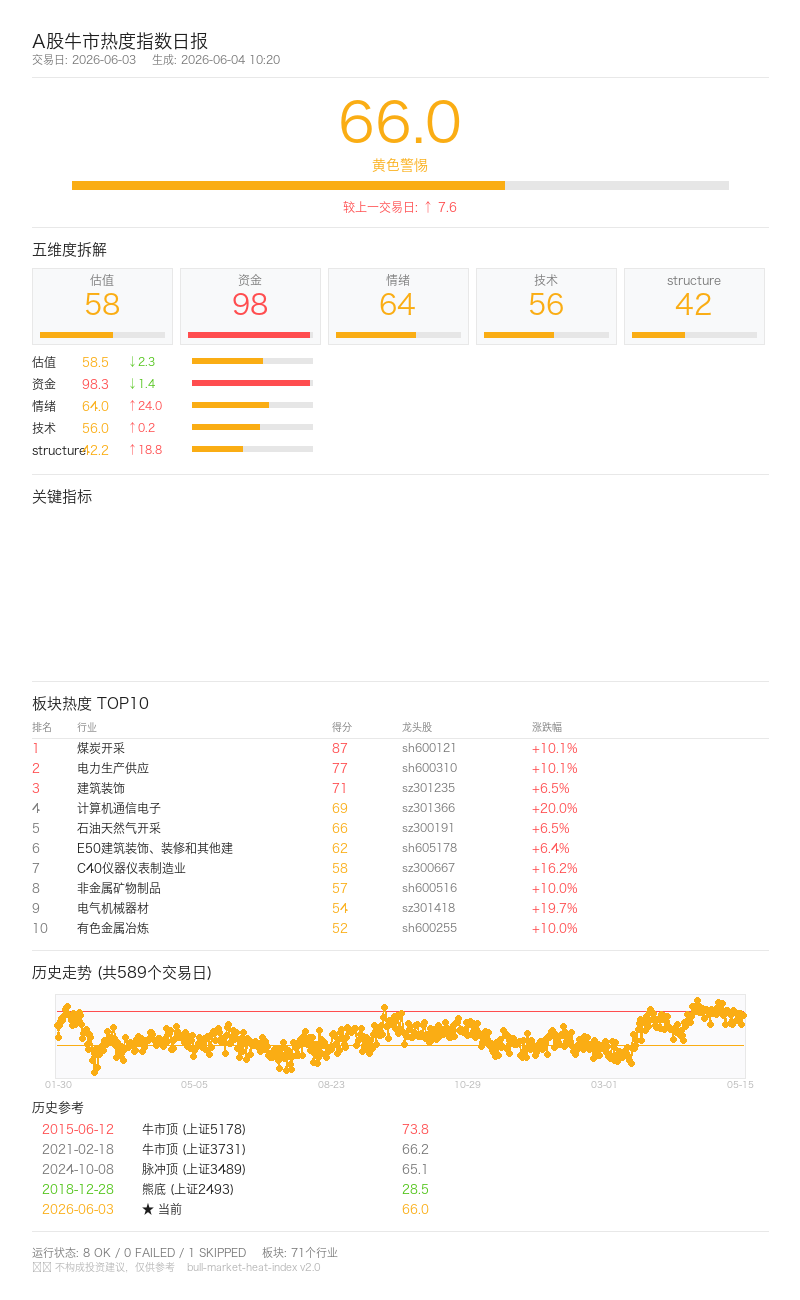
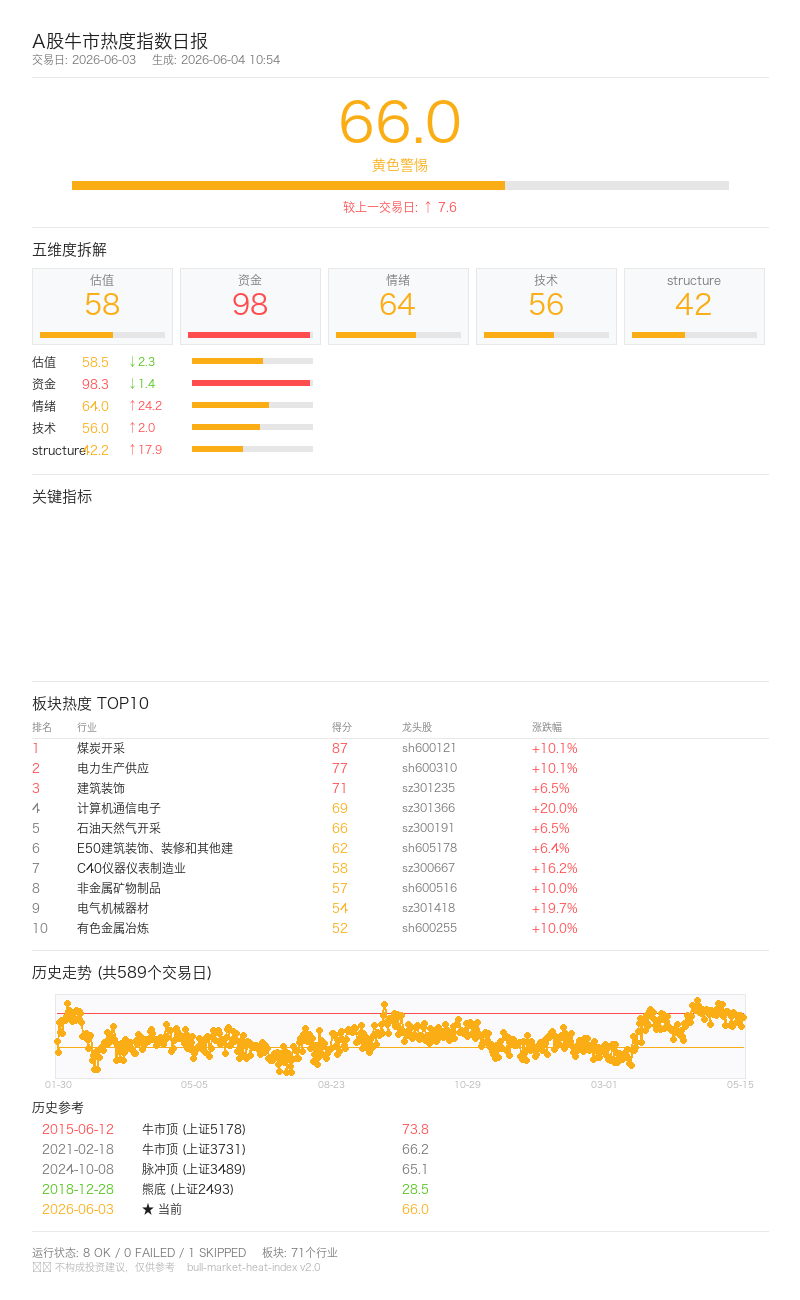
perf: 预计算表优化 + 周频回测完成 (14.8分钟, 589天)
预计算表 (7个):
- daily_below_net: 破净率
- daily_circ_mv: 流通市值总和
- daily_updown: 涨跌家数比
- daily_turnover: 换手率
- daily_limit: 涨停/跌停占比
- daily_ma250: 站上年线比例
- daily_sector_div: 行业分化度

计算器速度: 63秒→1.5秒 (42倍)
周频回测: 166分钟→14.8分钟 (11倍)

统计: 均值48.6 | 最高80.9(2025-09-11) | 最低18.2(2018-12-21)
分布: 🔴33天 🟡407天 🟢149天

diff --git a/reports/daily_20260603.html b/reports/daily_20260603.html
@@ -63,7 +63,7 @@ tr:hover { background:#111827; }
 <div class="container">
 
 <h1>📊 A股牛市热度指数日报</h1>
-<div class="sub"><span>📅 2026-06-03</span><span>🕐 2026-06-04 10:20</span><span>📈 日频</span></div>
+<div class="sub"><span>📅 2026-06-03</span><span>🕐 2026-06-04 10:54</span><span>📈 日频</span></div>
 
 <div class="hero">
   <div class="score-big">66.0</div>
@@ -83,15 +83,15 @@ tr:hover { background:#111827; }
       <div class="dim-bar"><div class="dim-bar-fill" style="width:98.3%;background:#ff4d4f"></div></div>
     </div><div class="dim-card">
       <div class="dim-name">情绪</div>
-      <div class="dim-score" style="color:#faad14">64<span style="color:red;font-size:0.85em">↑24.0</span></div>
+      <div class="dim-score" style="color:#faad14">64<span style="color:red;font-size:0.85em">↑24.2</span></div>
       <div class="dim-bar"><div class="dim-bar-fill" style="width:64.0%;background:#faad14"></div></div>
     </div><div class="dim-card">
       <div class="dim-name">技术</div>
-      <div class="dim-score" style="color:#faad14">56<span style="color:red;font-size:0.85em">↑0.2</span></div>
+      <div class="dim-score" style="color:#faad14">56<span style="color:red;font-size:0.85em">↑2.0</span></div>
       <div class="dim-bar"><div class="dim-bar-fill" style="width:56.0%;background:#faad14"></div></div>
     </div><div class="dim-card">
       <div class="dim-name">structure</div>
-      <div class="dim-score" style="color:#faad14">42<span style="color:red;font-size:0.85em">↑18.8</span></div>
+      <div class="dim-score" style="color:#faad14">42<span style="color:red;font-size:0.85em">↑17.9</span></div>
       <div class="dim-bar"><div class="dim-bar-fill" style="width:42.2%;background:#faad14"></div></div>
     </div></div>
 
@@ -153,7 +153,7 @@ tr:hover { background:#111827; }
 
 <div class="footer">
   <p>⚠️ 不构成投资建议，仅供参考</p>
-  <p>bull-market-heat-index v2.0 · baostock + tushare + akshare · 2026-06-04 10:20</p>
+  <p>bull-market-heat-index v2.0 · baostock + tushare + akshare · 2026-06-04 10:54</p>
 </div>
 </div>
 
@@ -173,7 +173,7 @@ scoreChart.setOption({
     splitLine:{lineStyle:{color:'#1e293b'}}, axisLabel:{color:'#6b7280',fontSize:10}
   },
   series:[{
-    type:'line', data:[57.9, 47.5, 57.6, 61.7, 64.3, 62.1, 66.7, 72.0, 73.8, 74.5, 67.8, 66.2, 62.3, 57.4, 68.5, 61.0, 59.0, 67.2, 61.2, 69.0, 66.3, 58.3, 46.4, 50.9, 53.1, 54.1, 41.3, 37.0, 50.0, 47.3, 26.8, 35.6, 16.3, 32.4, 37.3, 20.9, 32.3, 38.8, 38.8, 40.5, 35.6, 44.6, 41.0, 52.3, 42.6, 44.3, 47.0, 43.6, 56.3, 46.1, 40.1, 30.2, 42.7, 34.9, 31.7, 39.7, 34.9, 26.8, 37.2, 47.4, 38.9, 38.4, 39.7, 43.2, 40.7, 40.6, 34.9, 36.0, 45.4, 42.1, 48.1, 41.8, 46.3, 35.0, 41.2, 38.6, 42.8, 44.8, 45.0, 46.5, 52.0, 51.9, 50.2, 45.3, 43.8, 40.4, 44.6, 46.8, 46.5, 45.6, 41.9, 39.8, 42.3, 46.2, 55.2, 43.9, 51.2, 53.8, 36.4, 36.9, 37.7, 45.3, 56.7, 52.9, 50.0, 47.3, 48.3, 48.9, 45.6, 42.9, 51.8, 48.7, 39.4, 48.4, 37.3, 44.5, 48.9, 31.0, 36.2, 37.7, 39.6, 41.7, 46.9, 42.1, 45.3, 38.6, 46.4, 36.7, 46.1, 48.6, 46.9, 32.4, 38.9, 50.7, 52.8, 50.9, 44.7, 52.5, 55.3, 51.9, 43.4, 46.7, 44.0, 45.0, 33.4, 48.7, 56.3, 58.3, 41.9, 42.0, 48.1, 53.7, 45.8, 47.2, 51.6, 37.6, 30.2, 43.4, 46.6, 35.1, 51.3, 42.7, 27.8, 46.1, 43.1, 45.1, 32.7, 43.2, 40.3, 41.6, 43.5, 42.1, 39.5, 38.6, 35.3, 43.0, 47.1, 41.9, 37.1, 43.4, 39.8, 31.2, 33.4, 29.7, 32.8, 29.8, 36.4, 32.6, 33.8, 37.1, 27.4, 20.2, 37.5, 31.2, 42.6, 28.9, 37.4, 18.8, 35.9, 30.6, 23.8, 19.1, 30.9, 43.0, 38.5, 31.4, 39.6, 31.9, 43.8, 45.3, 31.3, 48.0, 41.8, 52.9, 45.7, 41.3, 47.3, 36.3, 42.9, 46.9, 25.5, 33.1, 41.0, 24.9, 29.8, 53.4, 34.4, 45.4, 40.4, 42.8, 31.9, 29.5, 34.1, 38.7, 37.6, 37.1, 50.2, 51.0, 49.1, 41.1, 33.2, 45.8, 35.9, 51.8, 54.4, 46.3, 41.5, 38.5, 47.6, 55.9, 54.7, 52.7, 51.6, 53.1, 53.3, 55.2, 55.3, 40.1, 44.7, 45.7, 50.2, 55.0, 35.3, 48.5, 36.8, 47.3, 40.7, 40.2, 33.2, 45.0, 37.6, 49.8, 58.0, 49.9, 41.5, 53.3, 49.2, 49.2, 57.7, 49.6, 64.4, 73.5, 57.1, 56.6, 46.5, 62.1, 58.8, 62.6, 60.6, 65.7, 55.6, 64.3, 66.9, 50.6, 54.7, 68.2, 52.4, 51.9, 41.5, 49.8, 48.6, 59.2, 54.4, 57.0, 47.3, 47.3, 51.4, 57.8, 58.2, 59.0, 48.5, 47.8, 50.9, 48.5, 58.1, 60.6, 46.6, 49.4, 49.6, 43.3, 55.4, 50.4, 45.6, 54.3, 50.7, 45.8, 47.8, 57.5, 48.4, 51.0, 54.3, 49.7, 54.2, 60.6, 50.6, 55.4, 46.9, 47.7, 52.8, 54.3, 58.1, 48.0, 60.0, 60.0, 63.5, 53.0, 52.4, 54.1, 51.9, 53.0, 54.7, 60.4, 49.4, 58.5, 60.9, 50.3, 57.4, 59.3, 54.9, 46.9, 59.9, 51.3, 50.3, 49.4, 39.6, 43.0, 49.6, 52.4, 44.0, 46.0, 51.9, 40.5, 41.8, 36.0, 34.3, 37.1, 30.8, 42.9, 31.6, 40.4, 45.5, 38.4, 39.1, 53.3, 49.2, 49.8, 36.7, 48.1, 33.7, 45.0, 42.3, 46.5, 40.9, 41.9, 41.2, 42.7, 43.5, 31.8, 32.4, 30.1, 44.8, 34.4, 29.7, 50.7, 44.1, 40.7, 36.5, 44.4, 40.6, 37.1, 31.9, 33.8, 37.9, 40.9, 43.6, 39.9, 36.5, 41.0, 41.2, 45.3, 32.7, 48.3, 47.5, 48.2, 52.7, 53.3, 38.7, 49.9, 46.5, 40.9, 42.9, 41.5, 49.7, 48.7, 57.2, 39.1, 51.4, 40.9, 47.8, 44.2, 50.8, 51.8, 39.8, 35.3, 32.4, 35.8, 38.5, 41.6, 45.8, 42.2, 40.9, 36.4, 48.4, 43.8, 38.7, 46.9, 36.6, 39.2, 41.5, 40.5, 29.3, 45.0, 37.0, 31.5, 40.9, 32.0, 38.0, 37.9, 38.0, 42.2, 43.4, 33.8, 39.4, 30.4, 29.4, 29.0, 43.5, 30.4, 27.5, 42.6, 26.7, 33.7, 35.0, 33.1, 33.9, 30.2, 35.0, 32.4, 33.5, 38.8, 30.5, 26.8, 24.9, 37.7, 50.3, 37.9, 40.7, 44.5, 54.2, 59.6, 63.0, 44.3, 60.6, 62.4, 53.4, 65.6, 59.6, 57.2, 69.5, 71.4, 63.4, 68.4, 63.3, 58.1, 55.7, 62.7, 63.7, 54.9, 67.6, 63.1, 66.9, 54.7, 61.0, 65.4, 56.4, 55.9, 54.2, 54.5, 46.0, 55.0, 52.5, 52.0, 58.6, 52.0, 48.8, 53.0, 48.9, 44.7, 60.0, 56.9, 67.1, 63.3, 62.9, 60.6, 65.7, 74.7, 74.1, 70.4, 74.8, 79.2, 75.6, 69.0, 68.9, 72.4, 70.4, 63.8, 71.0, 72.2, 70.7, 67.7, 58.8, 71.4, 68.6, 68.0, 71.6, 67.7, 73.8, 77.5, 75.6, 69.2, 76.9, 66.3, 70.2, 58.8, 70.6, 70.8, 68.7, 59.4, 67.4, 58.3, 71.2, 68.9, 62.1, 67.6, 68.6, 64.2, 68.3, 58.4, 66.4],
+    type:'line', data:[45.8, 36.3, 62.5, 53.1, 63.8, 52.5, 63.5, 63.6, 67.0, 78.3, 69.5, 72.4, 66.8, 63.0, 70.0, 65.7, 63.8, 72.5, 64.7, 71.7, 69.9, 62.4, 50.0, 49.9, 51.5, 52.7, 47.0, 39.7, 49.4, 50.5, 29.4, 33.6, 21.0, 32.8, 36.7, 20.9, 31.3, 39.3, 40.0, 39.8, 37.7, 44.9, 43.5, 53.7, 43.6, 46.9, 48.0, 50.3, 58.9, 47.1, 44.7, 28.7, 42.4, 36.5, 30.1, 44.1, 37.1, 29.5, 36.1, 47.4, 40.6, 39.1, 40.9, 44.8, 39.2, 38.0, 35.5, 35.3, 46.4, 43.1, 51.8, 44.9, 49.4, 38.4, 44.1, 43.3, 46.0, 47.8, 46.0, 47.9, 54.0, 56.2, 52.9, 47.5, 47.3, 42.3, 46.0, 47.7, 48.2, 49.3, 44.4, 42.9, 46.6, 50.3, 60.8, 49.0, 54.9, 55.6, 36.9, 38.6, 39.7, 46.2, 57.0, 54.0, 51.4, 48.6, 51.1, 50.3, 46.9, 44.1, 56.2, 51.6, 39.5, 50.1, 38.6, 44.7, 50.0, 31.2, 35.6, 37.4, 40.1, 40.2, 47.9, 42.7, 45.6, 38.7, 47.8, 36.2, 47.1, 50.0, 49.2, 33.0, 39.6, 49.9, 55.2, 53.1, 46.4, 53.6, 55.6, 52.2, 42.7, 47.8, 45.1, 45.6, 35.5, 49.0, 56.5, 57.7, 42.4, 42.1, 47.6, 54.6, 45.8, 47.4, 52.2, 36.9, 30.7, 42.8, 46.2, 34.5, 51.0, 42.3, 30.4, 45.7, 43.0, 45.0, 33.2, 42.8, 40.2, 42.2, 42.4, 42.0, 39.5, 38.8, 34.6, 41.3, 45.1, 41.0, 36.0, 42.1, 39.5, 30.7, 31.8, 29.5, 32.1, 28.9, 35.3, 32.3, 31.8, 35.8, 25.9, 19.4, 35.1, 29.6, 41.5, 27.7, 37.0, 19.0, 34.9, 29.8, 23.8, 18.2, 30.2, 41.1, 37.7, 31.2, 38.1, 31.1, 44.9, 48.3, 36.5, 51.8, 46.2, 57.0, 51.5, 45.2, 51.5, 39.8, 44.3, 48.5, 27.9, 33.9, 41.8, 25.7, 31.7, 55.5, 36.3, 46.3, 41.2, 43.6, 32.3, 31.2, 34.8, 38.7, 38.7, 39.7, 52.9, 52.5, 51.1, 41.3, 34.4, 46.7, 37.2, 52.2, 54.6, 47.1, 42.3, 39.6, 47.3, 55.2, 55.7, 54.4, 54.1, 53.6, 55.3, 57.5, 56.8, 44.9, 45.3, 47.9, 52.9, 59.2, 39.8, 52.2, 40.6, 49.5, 42.7, 41.5, 36.2, 47.3, 40.3, 51.2, 59.2, 51.4, 43.4, 53.7, 50.6, 51.5, 60.6, 52.6, 68.0, 78.1, 61.9, 60.7, 52.5, 65.9, 64.3, 65.4, 63.3, 69.6, 58.8, 65.6, 69.3, 52.1, 55.7, 68.5, 53.9, 54.4, 45.5, 53.1, 50.5, 60.7, 56.1, 58.6, 50.3, 48.4, 51.7, 58.0, 58.1, 59.7, 48.4, 47.4, 50.5, 49.0, 58.1, 60.9, 46.7, 50.1, 50.8, 44.3, 57.0, 51.9, 46.8, 55.6, 51.2, 45.7, 47.3, 57.7, 49.0, 50.9, 54.4, 49.3, 54.0, 60.5, 50.5, 55.1, 46.7, 47.6, 52.9, 54.6, 58.8, 48.1, 60.2, 60.6, 64.6, 53.6, 53.2, 55.3, 52.7, 53.8, 55.1, 61.0, 49.7, 59.4, 62.0, 51.3, 58.5, 60.4, 56.7, 48.2, 61.9, 52.7, 52.0, 51.2, 40.9, 44.1, 51.7, 53.7, 45.1, 46.6, 52.6, 41.4, 42.8, 36.9, 34.7, 37.9, 30.8, 42.5, 32.1, 41.1, 45.8, 39.1, 39.6, 53.6, 49.2, 49.8, 37.1, 48.8, 33.6, 46.4, 43.1, 47.0, 41.8, 42.1, 42.2, 44.3, 44.8, 32.5, 32.8, 30.2, 45.3, 35.4, 29.3, 50.8, 44.1, 41.2, 37.4, 45.7, 41.2, 38.3, 32.3, 34.4, 38.7, 41.8, 44.8, 41.6, 38.2, 42.5, 43.2, 47.4, 34.4, 49.6, 48.7, 49.6, 53.9, 54.1, 38.6, 50.3, 47.0, 42.1, 44.1, 42.8, 50.7, 49.3, 57.9, 39.5, 52.5, 42.3, 49.0, 45.4, 52.1, 52.7, 41.1, 36.3, 33.0, 36.8, 39.6, 42.7, 46.9, 43.3, 41.8, 36.9, 48.6, 44.6, 39.5, 48.0, 37.6, 40.1, 41.8, 41.7, 29.9, 45.7, 37.8, 31.8, 40.7, 31.3, 37.0, 37.3, 37.3, 42.0, 43.1, 33.2, 39.4, 30.3, 29.5, 28.9, 42.8, 29.9, 27.5, 42.8, 27.1, 34.1, 35.3, 33.0, 34.1, 30.3, 35.1, 32.5, 33.6, 39.0, 30.4, 26.9, 25.0, 37.6, 49.6, 37.9, 40.7, 44.4, 54.2, 61.5, 65.6, 44.7, 62.1, 64.2, 55.3, 68.3, 61.6, 59.2, 71.8, 73.9, 66.1, 70.5, 65.2, 59.5, 56.3, 64.0, 65.0, 56.2, 69.8, 65.2, 69.3, 56.7, 63.0, 67.7, 58.4, 57.8, 56.1, 55.5, 47.4, 56.4, 53.8, 53.6, 60.2, 53.5, 50.6, 54.8, 50.3, 46.3, 61.6, 58.5, 68.7, 64.9, 64.9, 62.4, 67.4, 76.6, 76.1, 72.6, 76.7, 80.9, 77.3, 70.8, 70.4, 73.8, 72.1, 65.2, 72.4, 73.7, 72.2, 69.2, 60.1, 72.4, 69.7, 68.8, 72.3, 68.6, 74.3, 78.8, 76.9, 70.3, 78.2, 67.2, 71.3, 59.9, 71.6, 71.5, 69.6, 59.7, 67.6, 58.5, 71.1, 69.1, 62.5, 67.8, 68.6, 64.5, 68.3, 58.4, 66.2],
     smooth:true, symbol:'none',
     lineStyle:{color:'#faad14',width:2},
     areaStyle:{color:{type:'linear',x:0,y:0,x2:0,y2:1,colorStops:[{offset:0,color:'#faad1433'},{offset:1,color:'transparent'}]}},
@@ -209,22 +209,22 @@ dimChart.setOption({
       lineStyle:{color:'#1890ff',width:1.5}
     },{
       name:'资金',
-      type:'line', data:[98.3, 54.1, 82.2, 67.5, 53.4, 77.8, 66.9, 50.8, 90.6, 41.4, 67.1, 99.1, 96.5, 98.7, 50.1, 48.5, 27.5, 19.5, 32.4, 32.1, 19.6, 24.1, 2.8, 2.8, 19.6, 45.6, 17.9, 25.6, 39.7, 10.5, 8.4, 8.0, 5.0, 25.8, 30.2, 34.3, 15.9, 20.2, 19.6, 21.6, 13.5, 35.7, 29.8, 37.2, 45.0, 27.2, 29.0, 43.0, 43.6, 40.8, 41.0, 22.2, 23.2, 26.9, 29.8, 38.3, 43.4, 24.9, 25.3, 39.1, 43.8, 53.1, 40.5, 43.4, 18.7, 30.1, 12.9, 31.2, 50.4, 55.8, 60.1, 56.7, 57.1, 56.0, 48.7, 43.1, 33.0, 53.7, 49.6, 51.9, 47.4, 46.0, 34.2, 30.0, 43.0, 66.6, 41.5, 55.2, 70.5, 50.4, 51.9, 38.1, 67.3, 66.0, 56.8, 61.6, 63.6, 60.6, 55.7, 47.6, 35.7, 61.8, 65.9, 41.4, 52.4, 45.9, 61.5, 71.9, 48.8, 54.6, 65.2, 43.8, 64.2, 60.9, 56.8, 61.0, 33.2, 43.6, 41.9, 60.7, 66.2, 69.0, 43.6, 39.3, 67.8, 68.2, 52.2, 51.2, 59.0, 56.0, 48.8, 42.4, 47.6, 55.0, 54.8, 51.2, 69.6, 86.8, 85.4, 54.1, 58.0, 75.2, 79.5, 78.7, 71.7, 85.1, 64.2, 61.9, 75.1, 77.4, 55.1, 66.0, 50.2, 57.3, 63.4, 78.0, 85.8, 64.8, 89.3, 62.7, 82.1, 82.9, 84.7, 87.8, 76.9, 91.1, 72.5, 70.4, 97.2, 71.0, 75.0, 71.6, 71.3, 56.2, 71.5, 55.5, 77.6, 55.1, 75.6, 62.9, 50.0, 58.4, 56.6, 71.1, 34.6, 62.4, 39.5, 51.8, 35.3, 63.3, 40.8, 36.9, 43.0, 57.8, 63.8, 66.1, 61.7, 64.8, 53.9, 65.0, 59.3, 36.9, 53.5, 36.1, 65.7, 35.9, 38.9, 40.3, 37.3, 38.6, 40.0, 25.3, 28.0, 31.7, 39.0, 27.7, 55.3, 32.8, 34.4, 37.8, 51.5, 27.2, 17.3, 35.4, 27.8, 34.4, 47.7, 52.9, 47.2, 55.2, 36.6, 32.4, 49.5, 30.5, 74.3, 89.6, 76.5, 79.1, 72.9, 74.2, 88.5, 90.9, 88.6, 90.2, 72.1, 86.1, 86.2, 88.8, 64.5, 99.0, 68.6, 90.8, 71.2, 63.6, 61.5, 52.7, 65.6, 71.4, 52.2, 59.0, 83.4, 74.5, 66.0, 80.2, 69.5, 59.4, 88.1, 87.0, 68.3, 95.1, 79.9, 94.1, 92.8, 67.4, 79.9, 63.8, 69.3, 69.2, 91.8, 76.7, 92.5, 64.8, 77.4, 92.8, 64.6, 59.5, 86.2, 64.6, 64.5, 54.5, 77.1, 56.5, 71.8, 70.4, 75.4, 58.9, 59.9, 64.5, 68.7, 80.3, 65.6, 55.8, 67.5, 76.0, 46.0, 67.3, 71.6, 46.5, 58.8, 61.5, 54.3, 79.6, 61.9, 66.4, 90.7, 87.7, 63.7, 75.2, 84.8, 66.5, 64.2, 75.3, 57.7, 69.1, 85.1, 58.4, 73.2, 60.1, 56.8, 70.8, 68.0, 67.8, 57.5, 87.8, 89.4, 84.1, 65.7, 81.4, 77.1, 66.1, 80.5, 92.4, 86.2, 70.3, 78.5, 81.8, 56.2, 80.2, 77.7, 48.1, 57.1, 68.6, 77.2, 59.0, 76.6, 46.0, 55.6, 64.3, 67.7, 53.6, 44.4, 67.5, 44.5, 59.3, 44.9, 47.2, 71.6, 70.0, 53.8, 47.1, 44.5, 54.8, 42.8, 43.2, 57.0, 58.0, 51.5, 33.8, 38.2, 22.5, 35.0, 26.7, 37.3, 39.5, 38.4, 43.3, 22.1, 46.5, 23.4, 29.9, 24.8, 41.2, 14.2, 28.1, 41.7, 42.6, 36.3, 40.5, 33.2, 22.6, 34.6, 27.4, 23.0, 33.4, 40.0, 39.3, 17.2, 19.6, 31.0, 16.4, 32.7, 16.8, 43.7, 32.0, 43.3, 39.2, 54.4, 27.9, 42.0, 39.4, 45.6, 33.8, 27.0, 56.2, 35.6, 52.0, 35.6, 41.2, 17.6, 29.7, 40.4, 45.9, 40.7, 18.5, 18.0, 27.2, 17.9, 15.9, 29.2, 47.7, 20.4, 22.7, 37.9, 50.2, 53.0, 30.0, 35.5, 32.5, 35.3, 50.1, 39.8, 42.2, 42.4, 40.5, 36.2, 49.6, 56.5, 27.4, 19.4, 6.6, 33.4, 36.2, 19.0, 34.4, 18.5, 14.9, 12.0, 36.6, 2.2, 5.5, 33.8, 14.6, 7.4, 23.0, 13.8, 30.9, 39.4, 22.7, 29.8, 6.6, 26.9, 18.1, 10.8, 8.7, 54.1, 70.0, 81.5, 83.8, 79.5, 66.3, 66.5, 66.6, 66.9, 66.8, 67.8, 82.3, 82.2, 90.4, 91.5, 89.5, 87.2, 92.7, 88.0, 85.9, 88.8, 88.7, 85.6, 85.3, 82.7, 88.1, 85.9, 87.9, 93.6, 87.1, 87.7, 89.3, 79.9, 80.6, 81.4, 71.7, 70.1, 70.0, 67.2, 65.2, 66.1, 68.3, 62.3, 77.8, 66.2, 65.3, 64.1, 76.5, 71.0, 76.3, 79.3, 75.8, 86.4, 85.4, 92.5, 94.7, 94.1, 94.7, 97.3, 94.1, 91.1, 97.0, 91.7, 85.2, 93.2, 87.0, 82.7, 88.7, 78.4, 81.0, 95.3, 81.8, 74.0, 85.7, 95.3, 96.7, 98.2, 97.7, 98.2, 90.9, 83.2, 89.9, 85.5, 87.0, 95.3, 85.1, 78.7, 84.0, 86.2, 92.5, 91.4, 92.7, 99.6, 92.8, 99.7, 98.3],
+      type:'line', data:[98.3, 54.1, 82.2, 66.8, 53.4, 77.8, 66.9, 50.8, 90.1, 41.4, 67.1, 99.1, 96.5, 98.7, 50.1, 48.1, 27.5, 19.5, 32.4, 32.1, 19.6, 23.8, 2.8, 2.8, 19.3, 45.6, 17.9, 25.6, 39.7, 10.5, 8.4, 8.0, 5.0, 25.8, 30.2, 34.3, 15.9, 20.2, 19.6, 21.6, 13.5, 35.7, 29.6, 37.2, 44.8, 27.2, 29.0, 43.0, 43.6, 40.8, 41.0, 22.2, 23.0, 26.9, 29.8, 38.3, 43.4, 24.8, 25.3, 39.0, 43.8, 53.1, 40.4, 43.3, 18.7, 30.1, 12.9, 31.2, 50.4, 55.8, 60.1, 56.7, 57.1, 56.0, 48.7, 43.1, 33.0, 53.7, 49.6, 51.9, 47.4, 46.0, 34.2, 30.0, 43.0, 66.6, 41.5, 55.2, 70.5, 50.4, 51.9, 38.1, 67.3, 66.0, 56.8, 61.6, 63.6, 60.6, 55.7, 47.5, 35.7, 61.8, 65.9, 41.3, 52.4, 45.9, 61.5, 71.9, 48.8, 54.6, 65.2, 43.7, 64.2, 60.9, 56.8, 61.0, 33.2, 43.6, 41.8, 60.7, 66.2, 68.9, 43.6, 39.3, 67.7, 68.2, 52.2, 51.2, 59.0, 56.0, 48.8, 42.4, 47.6, 55.0, 54.8, 51.2, 69.6, 86.8, 85.4, 54.1, 58.0, 75.2, 79.5, 78.7, 71.7, 85.1, 64.2, 61.9, 75.1, 77.3, 55.1, 66.0, 50.2, 57.3, 63.4, 78.0, 85.8, 64.8, 89.3, 62.7, 82.1, 82.9, 84.7, 87.8, 76.9, 91.1, 72.5, 70.3, 97.2, 71.0, 75.0, 71.6, 71.3, 56.2, 71.5, 55.5, 77.6, 55.1, 75.6, 62.9, 49.9, 58.4, 56.6, 71.1, 34.6, 62.4, 39.5, 51.8, 35.2, 63.2, 40.8, 36.8, 43.0, 57.8, 63.8, 66.1, 61.7, 64.8, 53.9, 65.0, 59.3, 36.9, 53.5, 36.1, 65.7, 35.9, 38.9, 40.3, 37.3, 38.6, 40.0, 25.3, 28.0, 31.7, 39.0, 27.7, 55.3, 32.8, 34.4, 37.8, 51.5, 27.2, 17.3, 35.4, 27.8, 34.4, 47.7, 52.9, 47.2, 55.2, 36.6, 32.4, 49.5, 30.5, 74.3, 89.6, 76.5, 79.1, 72.9, 74.2, 88.5, 90.9, 88.6, 90.2, 72.1, 86.1, 86.2, 88.8, 64.5, 99.0, 68.6, 90.8, 71.2, 63.6, 61.5, 52.7, 65.6, 71.4, 52.2, 59.0, 83.4, 74.5, 66.0, 80.2, 69.5, 59.4, 88.1, 87.0, 68.3, 95.1, 79.9, 94.1, 92.8, 67.4, 79.8, 63.8, 69.3, 69.2, 91.8, 76.7, 92.5, 64.8, 77.4, 92.8, 64.6, 59.5, 86.2, 64.6, 64.5, 54.5, 77.1, 56.5, 71.7, 70.4, 75.4, 58.9, 59.9, 64.5, 68.7, 80.2, 65.6, 55.8, 67.5, 76.0, 46.0, 67.3, 71.6, 46.5, 58.8, 61.5, 54.3, 79.5, 61.9, 66.4, 90.6, 87.7, 63.7, 75.2, 84.8, 66.5, 64.2, 75.3, 57.7, 69.1, 85.1, 58.4, 73.2, 60.1, 56.8, 70.8, 67.9, 67.8, 57.5, 87.8, 89.4, 84.1, 65.7, 81.4, 77.1, 66.1, 80.5, 92.4, 86.2, 70.3, 78.5, 81.7, 56.2, 80.2, 77.7, 48.1, 57.1, 68.6, 77.2, 59.0, 76.6, 46.0, 55.6, 64.3, 67.7, 53.6, 44.3, 67.5, 44.5, 59.2, 44.9, 47.1, 71.6, 70.0, 53.8, 47.1, 44.5, 54.8, 42.8, 43.2, 57.0, 58.0, 51.5, 33.8, 38.2, 22.5, 35.0, 26.7, 37.3, 39.4, 38.4, 43.3, 22.0, 46.5, 23.4, 29.9, 24.8, 41.2, 14.2, 28.0, 41.7, 42.5, 36.3, 40.5, 33.2, 22.6, 34.6, 27.4, 23.0, 33.4, 40.0, 39.3, 17.2, 19.6, 31.0, 16.4, 32.7, 16.8, 43.7, 31.9, 43.3, 39.2, 54.4, 27.9, 42.0, 39.4, 45.6, 33.8, 27.0, 56.2, 35.6, 52.0, 35.6, 41.2, 17.6, 29.7, 40.4, 45.9, 40.7, 18.5, 18.0, 27.2, 17.9, 15.9, 29.2, 47.7, 20.4, 22.7, 37.9, 50.2, 53.0, 30.0, 35.5, 32.5, 35.3, 50.1, 39.8, 42.2, 42.4, 40.5, 36.2, 49.6, 56.4, 27.4, 19.4, 6.6, 33.4, 36.2, 19.0, 34.4, 18.5, 14.9, 12.0, 36.6, 2.2, 5.5, 33.8, 14.6, 7.4, 23.0, 13.8, 30.9, 39.4, 22.7, 29.8, 6.6, 26.9, 18.1, 10.8, 8.6, 54.1, 70.0, 81.5, 83.8, 79.5, 66.3, 66.5, 66.6, 66.9, 66.8, 67.8, 82.2, 82.2, 90.4, 91.5, 89.5, 87.2, 92.6, 88.0, 85.9, 88.8, 88.7, 85.6, 85.3, 82.7, 88.1, 85.9, 87.9, 93.6, 87.1, 87.7, 89.3, 79.9, 80.6, 81.4, 71.7, 70.1, 70.0, 67.2, 65.2, 66.1, 68.3, 62.3, 77.7, 66.2, 65.3, 64.1, 76.5, 71.0, 76.3, 79.3, 75.8, 86.4, 85.4, 92.5, 94.7, 94.1, 94.6, 97.3, 94.1, 91.1, 97.0, 91.7, 85.2, 93.2, 87.0, 82.7, 88.7, 78.4, 81.0, 95.3, 81.8, 74.0, 85.7, 95.3, 96.7, 98.2, 97.7, 98.2, 90.9, 83.2, 89.9, 85.5, 87.0, 95.3, 85.1, 78.7, 84.0, 86.2, 92.5, 91.4, 92.7, 99.6, 92.7, 99.7, 98.3],
       smooth:true, symbol:'none',
       lineStyle:{color:'#52c41a',width:1.5}
     },{
       name:'情绪',
-      type:'line', data:[58.9, 66.1, 41.1, 45.0, 44.9, 71.5, 42.8, 54.8, 51.7, 51.5, 51.9, 6.2, 3.1, 3.8, 75.1, 74.5, 73.2, 31.6, 27.9, 67.3, 44.7, 1.7, 74.7, 12.5, 45.7, 48.4, 10.0, 33.2, 55.0, 54.0, 69.7, 36.2, 64.9, 17.9, 51.9, 7.4, 32.9, 24.1, 32.8, 40.8, 17.2, 47.9, 7.7, 45.8, 61.6, 22.8, 35.3, 32.1, 10.1, 24.6, 67.2, 38.6, 25.8, 24.2, 28.8, 37.9, 27.3, 8.1, 21.0, 46.5, 32.6, 39.0, 31.5, 45.0, 30.0, 30.9, 31.7, 26.6, 16.1, 16.2, 23.4, 48.4, 40.3, 42.6, 27.8, 27.1, 30.3, 26.1, 37.3, 32.2, 29.0, 22.6, 36.8, 49.6, 33.3, 38.2, 20.2, 33.3, 55.9, 15.9, 30.4, 23.4, 15.7, 61.4, 46.6, 28.4, 41.5, 26.8, 41.8, 33.6, 30.8, 26.5, 47.3, 33.1, 44.9, 11.6, 21.7, 38.8, 12.9, 28.9, 30.2, 32.6, 49.9, 37.3, 24.6, 25.1, 33.3, 43.7, 13.6, 24.9, 27.6, 28.7, 8.2, 25.8, 61.5, 47.6, 38.3, 26.2, 39.5, 49.6, 52.9, 55.6, 22.7, 24.4, 44.0, 5.7, 26.9, 43.7, 53.1, 26.6, 21.6, 34.4, 33.9, 23.1, 27.7, 19.5, 17.7, 4.8, 29.8, 31.9, 28.4, 65.6, 41.7, 9.1, 64.3, 42.9, 20.8, 6.2, 25.8, 27.5, 13.8, 41.4, 30.5, 13.7, 13.2, 6.1, 52.8, 72.8, 35.5, 38.4, 54.8, 29.3, 13.7, 47.3, 5.0, 22.6, 10.8, 46.9, 10.3, 43.5, 38.7, 27.6, 5.7, 56.4, 52.8, 73.1, 42.1, 65.3, 3.1, 39.4, 28.7, 7.9, 15.8, 27.7, 63.2, 39.5, 25.4, 57.3, 45.3, 75.3, 53.4, 27.4, 68.4, 60.0, 71.9, 57.9, 39.8, 60.9, 27.1, 49.7, 77.1, 18.2, 28.8, 52.6, 6.8, 7.9, 74.4, 15.9, 47.4, 35.9, 41.4, 32.1, 22.2, 21.2, 46.0, 39.8, 18.7, 47.0, 52.4, 41.0, 49.7, 9.1, 47.2, 22.1, 42.9, 43.7, 28.7, 14.4, 16.6, 35.2, 53.1, 53.4, 36.4, 34.9, 52.7, 56.5, 32.9, 31.9, 8.9, 26.7, 68.0, 53.1, 65.4, 16.4, 56.6, 35.3, 70.0, 30.6, 43.8, 12.2, 44.5, 12.3, 70.0, 65.0, 51.4, 21.8, 60.2, 41.2, 47.3, 55.1, 31.2, 67.4, 77.0, 54.0, 42.3, 12.1, 69.6, 38.9, 46.7, 54.4, 46.1, 34.7, 59.9, 58.5, 18.1, 29.9, 76.1, 34.7, 9.2, 3.8, 13.2, 25.7, 46.3, 29.9, 32.9, 8.7, 31.7, 56.5, 70.1, 55.3, 70.1, 49.1, 31.3, 32.2, 46.4, 76.5, 74.9, 44.4, 54.3, 42.5, 40.5, 55.3, 45.8, 37.5, 52.9, 25.1, 33.3, 45.0, 67.9, 48.7, 54.0, 45.3, 53.2, 65.8, 60.6, 47.1, 69.6, 49.6, 48.1, 72.8, 61.5, 62.6, 47.5, 57.2, 57.4, 58.3, 50.5, 33.1, 64.5, 57.8, 25.0, 33.5, 66.4, 44.6, 66.9, 67.5, 49.5, 52.5, 61.6, 53.5, 33.2, 50.2, 32.4, 54.8, 23.8, 40.9, 25.0, 43.6, 58.5, 27.0, 64.8, 68.0, 45.5, 42.1, 32.9, 20.0, 29.6, 23.5, 79.1, 35.9, 49.5, 63.6, 44.6, 59.9, 73.5, 60.8, 71.5, 41.3, 50.5, 36.6, 39.6, 46.2, 64.4, 40.9, 38.2, 25.1, 48.0, 25.1, 8.3, 4.5, 10.7, 66.7, 31.0, 17.9, 71.9, 62.4, 39.6, 17.0, 47.9, 41.9, 21.0, 22.7, 37.1, 25.3, 30.1, 32.5, 36.2, 24.2, 26.1, 23.3, 28.1, 14.4, 51.5, 41.1, 46.2, 61.0, 53.8, 23.7, 70.9, 33.1, 15.2, 32.2, 40.5, 48.5, 57.6, 57.8, 24.3, 52.4, 17.6, 32.2, 16.6, 49.7, 40.1, 9.0, 10.1, 7.6, 22.6, 30.2, 28.9, 47.2, 42.7, 28.6, 14.8, 67.5, 46.9, 23.6, 47.2, 14.0, 47.2, 29.4, 25.8, 9.7, 55.5, 17.9, 10.6, 38.3, 14.8, 83.9, 73.0, 67.7, 57.5, 64.3, 43.0, 57.0, 30.3, 29.6, 37.0, 71.8, 38.5, 22.5, 60.4, 16.0, 33.8, 48.7, 33.8, 19.4, 29.2, 38.8, 20.6, 38.8, 48.3, 22.7, 10.3, 18.8, 19.4, 66.3, 16.3, 12.3, 29.3, 87.3, 89.1, 88.0, 31.0, 86.8, 84.3, 47.9, 72.2, 41.9, 48.2, 82.1, 78.6, 60.0, 73.9, 64.7, 30.7, 28.5, 49.8, 65.7, 33.2, 78.4, 68.5, 75.3, 32.2, 50.2, 79.4, 37.5, 23.3, 34.4, 70.4, 35.2, 49.3, 60.7, 32.0, 55.9, 34.1, 28.6, 48.6, 42.1, 31.6, 65.5, 38.5, 65.5, 58.4, 54.0, 55.5, 62.4, 84.2, 72.4, 59.5, 85.6, 82.2, 63.3, 48.1, 43.8, 65.0, 53.5, 29.2, 68.9, 64.5, 56.2, 55.2, 25.0, 72.7, 74.9, 64.7, 75.0, 64.3, 60.3, 83.2, 85.2, 56.2, 83.0, 51.2, 63.4, 33.6, 73.0, 78.6, 47.1, 30.9, 75.7, 28.6, 70.8, 63.7, 51.0, 68.3, 79.6, 54.4, 84.1, 40.0, 64.0],
+      type:'line', data:[44.6, 27.7, 76.2, 67.1, 74.6, 60.2, 76.1, 78.6, 79.7, 83.1, 86.3, 77.0, 73.4, 74.3, 86.8, 71.6, 81.3, 79.0, 82.0, 81.5, 43.7, 38.9, 39.2, 88.9, 88.5, 88.2, 67.3, 55.4, 86.3, 77.2, 23.8, 88.2, 38.6, 70.4, 67.9, 28.0, 50.2, 78.6, 82.8, 87.2, 68.7, 87.6, 47.7, 80.7, 35.7, 65.3, 49.4, 66.8, 71.2, 43.6, 75.6, 22.1, 63.6, 74.7, 34.5, 60.8, 57.5, 27.2, 25.5, 86.1, 64.5, 45.0, 45.8, 48.1, 48.9, 31.2, 24.8, 21.1, 55.2, 38.6, 65.4, 53.0, 69.2, 56.2, 46.0, 53.1, 43.6, 28.9, 20.1, 27.4, 54.3, 57.4, 54.9, 33.3, 38.2, 35.5, 30.4, 37.1, 37.5, 41.5, 34.8, 53.8, 71.7, 48.7, 57.5, 39.2, 43.1, 61.1, 20.0, 32.7, 31.1, 18.7, 59.1, 48.3, 31.6, 50.7, 38.1, 50.3, 39.8, 35.2, 45.1, 59.4, 36.7, 55.9, 21.0, 20.5, 42.8, 17.9, 30.3, 31.9, 34.4, 47.7, 40.8, 25.9, 25.5, 32.4, 48.1, 11.7, 27.4, 32.4, 41.5, 15.2, 30.9, 60.2, 59.7, 45.8, 34.8, 42.2, 48.2, 51.8, 51.5, 25.8, 27.6, 49.1, 17.8, 25.3, 41.2, 48.6, 26.0, 19.3, 30.2, 35.1, 25.3, 30.7, 20.8, 15.9, 9.6, 24.7, 28.1, 28.5, 61.8, 37.8, 22.5, 60.7, 42.6, 17.4, 7.0, 21.2, 24.8, 13.6, 36.5, 29.4, 11.3, 11.3, 4.3, 42.8, 61.1, 30.1, 33.2, 46.9, 25.5, 10.4, 40.8, 2.7, 17.7, 7.5, 39.5, 6.7, 35.6, 31.4, 21.3, 3.3, 45.4, 43.8, 65.6, 34.2, 61.5, 2.7, 32.3, 22.6, 5.2, 12.0, 21.6, 51.9, 32.3, 20.3, 45.7, 39.5, 76.1, 58.7, 45.0, 73.6, 67.5, 77.6, 69.1, 42.3, 64.5, 30.6, 42.5, 73.4, 23.3, 22.3, 45.1, 5.0, 7.4, 71.6, 13.1, 39.1, 28.6, 34.0, 25.6, 20.9, 18.1, 39.3, 35.1, 21.4, 49.0, 47.7, 38.8, 40.4, 5.8, 39.9, 18.8, 35.3, 36.1, 23.9, 10.5, 14.2, 27.9, 43.2, 49.1, 34.8, 37.1, 45.6, 56.9, 34.5, 31.4, 23.2, 25.2, 74.9, 60.0, 75.6, 34.5, 65.4, 48.1, 72.8, 33.8, 42.2, 20.6, 51.1, 17.6, 68.4, 64.2, 49.5, 23.2, 53.9, 39.9, 49.0, 59.3, 36.3, 76.3, 85.7, 67.7, 52.8, 31.5, 76.5, 52.4, 48.6, 55.7, 51.6, 37.9, 53.4, 58.4, 14.8, 25.0, 66.5, 32.3, 11.0, 15.7, 21.6, 24.8, 42.8, 27.9, 30.7, 15.9, 31.7, 53.4, 65.0, 50.7, 68.1, 45.2, 27.2, 28.2, 46.4, 74.9, 73.5, 42.0, 54.9, 43.6, 42.2, 58.8, 49.1, 40.2, 56.1, 23.5, 28.8, 39.8, 65.3, 48.4, 49.8, 41.6, 47.9, 61.5, 55.7, 42.7, 65.2, 45.3, 44.4, 70.3, 59.0, 60.5, 44.4, 53.8, 55.7, 57.3, 49.1, 32.3, 66.7, 57.7, 24.2, 33.0, 66.3, 43.6, 67.0, 68.0, 50.3, 52.4, 61.6, 54.4, 33.3, 51.8, 31.6, 55.7, 26.2, 44.3, 26.1, 48.2, 60.3, 27.6, 64.9, 69.2, 47.6, 43.9, 34.3, 21.0, 32.4, 23.7, 78.1, 39.2, 52.7, 64.8, 47.7, 62.0, 73.1, 60.1, 70.3, 41.6, 51.8, 35.4, 43.1, 47.7, 65.6, 42.7, 37.0, 27.8, 52.7, 28.8, 10.4, 5.8, 11.6, 69.3, 34.4, 16.3, 70.6, 60.6, 40.1, 19.6, 51.0, 42.1, 24.5, 24.2, 39.2, 27.3, 32.1, 34.2, 38.2, 25.3, 26.8, 24.7, 29.5, 15.8, 51.7, 38.8, 46.8, 60.1, 52.0, 19.3, 68.4, 31.4, 16.5, 33.9, 42.5, 49.0, 56.9, 56.1, 22.6, 53.7, 19.2, 32.9, 17.6, 50.0, 38.1, 10.2, 11.1, 8.4, 23.4, 31.3, 29.7, 48.3, 43.4, 29.0, 15.2, 65.0, 46.8, 22.9, 46.9, 13.8, 46.5, 26.2, 26.4, 9.3, 54.6, 18.3, 10.6, 36.0, 11.7, 79.2, 70.1, 62.9, 55.7, 61.7, 38.2, 55.7, 27.9, 28.6, 35.4, 67.1, 34.1, 20.3, 59.2, 15.7, 33.8, 48.9, 31.8, 19.4, 28.7, 38.8, 20.2, 38.3, 48.5, 21.3, 10.2, 18.3, 18.8, 62.1, 16.0, 11.6, 28.3, 83.7, 88.8, 88.1, 27.2, 86.2, 82.4, 47.2, 72.1, 39.4, 46.0, 80.1, 76.7, 59.1, 70.7, 60.8, 26.1, 23.9, 45.6, 61.7, 29.2, 77.3, 66.1, 74.5, 30.0, 47.7, 77.5, 33.8, 20.0, 30.8, 66.7, 32.9, 45.5, 56.9, 28.3, 52.7, 30.4, 25.1, 44.9, 37.9, 28.5, 61.3, 34.4, 61.7, 54.3, 50.4, 51.7, 58.6, 81.7, 70.2, 58.0, 83.5, 80.0, 61.4, 46.4, 41.9, 62.4, 51.8, 27.6, 65.7, 62.1, 53.6, 52.5, 23.7, 69.1, 71.2, 61.7, 71.3, 61.2, 57.3, 80.9, 83.6, 54.7, 80.7, 49.9, 60.7, 32.6, 70.2, 75.4, 45.7, 30.5, 72.7, 27.9, 68.1, 61.4, 49.6, 65.9, 76.8, 53.0, 82.0, 39.8, 62.0],
       smooth:true, symbol:'none',
       lineStyle:{color:'#faad14',width:1.5}
     },{
       name:'技术',
-      type:'line', data:[73.5, 45.2, 74.6, 83.6, 90.9, 89.6, 93.6, 98.6, 98.7, 99.1, 98.3, 96.8, 96.5, 95.2, 91.2, 91.7, 94.0, 92.2, 93.9, 92.6, 83.3, 68.6, 17.9, 10.7, 18.0, 28.2, 46.7, 23.2, 32.1, 53.1, 21.2, 9.4, 3.7, 7.3, 5.1, 5.6, 6.0, 9.2, 22.7, 27.4, 28.9, 41.7, 47.2, 54.8, 43.6, 49.6, 44.4, 56.4, 59.4, 55.9, 23.7, 11.1, 13.9, 8.0, 11.7, 18.5, 11.2, 9.1, 8.7, 17.4, 22.4, 23.9, 25.7, 33.6, 22.6, 23.2, 22.4, 14.1, 14.2, 15.2, 22.2, 22.5, 21.0, 20.4, 24.3, 28.1, 29.2, 28.2, 23.2, 22.6, 25.1, 30.7, 28.9, 28.5, 31.3, 26.7, 30.1, 28.6, 33.4, 33.7, 34.5, 37.2, 40.9, 41.0, 41.8, 36.8, 36.4, 31.1, 29.6, 30.6, 33.2, 57.2, 56.2, 59.9, 57.9, 63.9, 62.5, 66.5, 62.4, 61.2, 62.6, 66.5, 56.2, 65.7, 55.8, 44.7, 43.5, 39.5, 37.0, 37.6, 37.4, 36.2, 40.5, 37.2, 39.0, 42.5, 45.4, 43.7, 44.5, 45.9, 46.0, 38.4, 45.9, 52.8, 56.6, 54.9, 53.3, 52.4, 51.3, 55.8, 51.5, 57.9, 47.5, 58.7, 45.3, 41.2, 36.1, 32.9, 30.5, 33.4, 35.0, 44.6, 48.8, 57.5, 58.4, 47.6, 18.1, 20.4, 26.1, 23.7, 29.9, 25.7, 19.3, 22.4, 21.3, 22.9, 18.0, 18.4, 19.1, 23.3, 24.5, 22.3, 17.2, 17.1, 15.2, 13.6, 13.3, 10.4, 13.9, 14.5, 14.7, 10.3, 12.7, 8.5, 11.3, 11.4, 10.6, 10.1, 15.9, 16.8, 8.1, 4.2, 6.3, 8.8, 14.6, 10.7, 16.5, 11.1, 12.9, 14.8, 14.8, 9.5, 9.2, 16.9, 19.3, 19.8, 20.5, 22.1, 29.2, 47.7, 45.5, 53.8, 57.0, 56.7, 58.4, 57.2, 58.2, 54.5, 53.9, 42.0, 36.7, 33.9, 39.4, 31.8, 38.0, 52.3, 50.4, 52.5, 42.0, 41.0, 43.7, 34.7, 26.4, 30.8, 38.0, 36.2, 51.1, 53.7, 50.9, 39.6, 35.5, 44.2, 39.0, 40.3, 39.6, 39.4, 30.3, 29.8, 27.9, 31.3, 36.8, 41.7, 40.2, 46.0, 50.2, 50.3, 46.6, 32.9, 20.0, 26.9, 28.1, 39.6, 26.6, 38.7, 26.6, 20.9, 21.3, 21.1, 22.8, 25.8, 24.9, 27.7, 30.0, 29.1, 25.8, 28.1, 34.3, 32.9, 38.4, 39.7, 59.2, 64.3, 63.8, 60.3, 59.3, 61.9, 62.8, 62.2, 62.2, 62.2, 61.0, 57.3, 60.0, 54.4, 53.5, 57.8, 59.8, 57.1, 50.9, 57.9, 57.4, 59.9, 59.1, 59.7, 55.2, 56.3, 55.6, 57.7, 58.9, 58.4, 59.5, 55.2, 54.5, 58.3, 59.3, 59.9, 54.9, 54.3, 50.9, 45.6, 46.3, 52.2, 47.4, 43.5, 47.0, 42.1, 38.6, 45.1, 43.1, 54.1, 52.7, 50.3, 41.8, 50.0, 38.5, 38.8, 39.5, 40.5, 28.9, 33.1, 38.7, 30.9, 38.8, 43.9, 56.8, 45.5, 44.5, 38.1, 40.6, 37.5, 38.1, 34.4, 30.9, 35.9, 38.1, 38.7, 42.0, 47.4, 43.5, 40.4, 43.3, 36.4, 32.0, 30.1, 22.5, 26.6, 28.3, 27.3, 27.3, 21.4, 20.0, 19.4, 20.3, 19.2, 17.7, 15.0, 7.5, 14.0, 12.6, 16.4, 18.0, 17.7, 20.0, 22.5, 24.3, 26.8, 28.3, 27.3, 22.6, 25.0, 25.2, 24.2, 27.4, 27.1, 24.4, 22.0, 26.2, 19.3, 18.4, 16.7, 18.9, 19.0, 15.8, 22.1, 22.5, 23.6, 23.2, 27.3, 30.0, 27.8, 20.2, 23.5, 29.1, 31.3, 38.6, 40.6, 41.3, 36.8, 42.2, 49.0, 38.0, 39.9, 41.9, 42.4, 49.0, 49.8, 43.9, 46.0, 46.5, 38.1, 39.7, 32.9, 34.2, 33.7, 38.6, 31.1, 32.2, 31.7, 36.1, 28.8, 39.0, 40.1, 29.2, 26.2, 21.1, 27.0, 25.9, 25.3, 26.5, 25.6, 24.2, 17.1, 20.3, 21.2, 22.5, 24.6, 23.2, 23.0, 19.1, 18.4, 16.6, 20.3, 15.9, 13.4, 15.6, 8.5, 13.1, 21.1, 23.6, 25.0, 26.7, 27.0, 26.3, 28.2, 24.8, 27.8, 30.6, 32.4, 38.3, 38.5, 31.5, 31.7, 28.0, 27.0, 24.5, 22.4, 21.3, 23.0, 24.2, 17.5, 19.5, 16.7, 18.3, 16.4, 16.4, 12.8, 11.1, 12.3, 41.7, 57.1, 62.1, 52.7, 55.5, 57.8, 56.3, 62.2, 58.8, 55.9, 59.2, 61.8, 62.0, 60.3, 59.7, 56.9, 42.5, 50.1, 51.1, 50.1, 55.6, 56.9, 59.0, 55.1, 58.6, 61.0, 57.9, 55.6, 53.9, 41.4, 44.8, 47.0, 45.4, 52.0, 54.1, 51.3, 51.0, 55.2, 53.5, 50.0, 58.1, 60.2, 62.3, 63.7, 66.2, 64.2, 68.1, 69.9, 73.4, 72.5, 70.7, 72.6, 72.4, 70.2, 69.2, 70.8, 71.2, 67.4, 71.8, 71.7, 72.7, 72.9, 63.8, 67.4, 67.6, 65.8, 66.1, 68.9, 68.5, 75.0, 76.6, 74.5, 76.9, 73.8, 71.8, 71.8, 75.2, 72.0, 70.0, 60.2, 56.4, 51.3, 60.7, 64.5, 64.2, 65.5, 69.6, 65.5, 62.9, 55.8, 56.0],
+      type:'line', data:[99.4, 98.7, 97.7, 96.8, 95.4, 91.8, 91.6, 93.7, 91.9, 93.4, 92.4, 84.4, 70.2, 16.2, 8.8, 16.0, 26.4, 44.7, 20.5, 29.7, 51.4, 20.7, 8.4, 3.5, 6.7, 4.8, 5.5, 5.9, 9.2, 22.4, 27.1, 28.7, 41.5, 46.9, 54.6, 43.4, 49.5, 44.0, 56.3, 59.0, 55.7, 22.8, 10.3, 13.2, 7.3, 10.6, 16.4, 9.7, 7.9, 7.1, 14.7, 19.4, 20.8, 22.2, 30.0, 19.5, 20.3, 19.6, 12.0, 12.6, 13.7, 20.9, 21.3, 20.9, 20.9, 27.5, 34.0, 36.8, 36.0, 27.8, 28.4, 32.9, 41.1, 40.2, 40.1, 43.5, 35.4, 40.6, 37.9, 44.9, 45.9, 46.0, 49.3, 55.1, 56.3, 59.1, 53.1, 52.7, 42.5, 41.9, 44.1, 48.9, 64.5, 62.3, 66.2, 63.9, 70.5, 68.7, 73.4, 69.0, 68.1, 69.4, 72.8, 60.6, 71.2, 60.5, 48.3, 46.0, 41.5, 37.9, 39.3, 38.8, 37.8, 42.0, 38.7, 40.8, 44.3, 47.0, 45.5, 46.3, 48.2, 48.2, 40.3, 48.0, 54.2, 58.8, 57.5, 56.2, 55.1, 53.8, 59.2, 53.9, 60.1, 48.9, 60.7, 46.9, 42.8, 38.1, 34.4, 32.1, 35.2, 36.3, 46.5, 50.8, 59.0, 60.4, 48.3, 18.3, 20.9, 26.8, 25.0, 31.4, 27.5, 20.6, 24.5, 23.5, 25.1, 20.3, 21.0, 21.8, 26.4, 27.8, 25.2, 19.0, 18.7, 16.3, 14.1, 13.7, 10.5, 14.3, 14.9, 15.4, 10.3, 12.8, 8.3, 11.2, 11.2, 10.6, 10.0, 16.1, 17.0, 8.0, 3.6, 5.8, 8.5, 14.7, 11.0, 18.2, 11.5, 13.6, 15.9, 15.7, 10.4, 10.1, 19.4, 21.6, 22.6, 22.9, 27.4, 38.6, 63.8, 64.9, 77.0, 84.5, 83.0, 88.9, 87.1, 89.5, 79.5, 76.8, 60.5, 53.3, 49.4, 57.2, 44.7, 53.9, 74.1, 69.9, 73.9, 59.8, 58.4, 60.5, 48.8, 35.3, 41.5, 52.4, 50.3, 69.8, 75.4, 71.2, 54.5, 49.3, 60.8, 53.2, 55.1, 52.6, 51.2, 38.8, 38.6, 36.1, 41.1, 47.6, 54.7, 53.1, 60.3, 66.4, 67.4, 62.2, 44.5, 26.4, 35.5, 37.4, 52.9, 36.6, 54.8, 39.3, 31.1, 31.0, 29.7, 33.4, 36.3, 35.8, 37.7, 41.1, 39.9, 35.3, 38.8, 46.8, 44.8, 51.5, 52.1, 74.9, 86.6, 84.6, 78.7, 77.4, 82.4, 84.1, 84.8, 85.0, 85.2, 83.7, 76.9, 80.4, 70.7, 68.5, 74.6, 77.7, 73.0, 64.0, 72.2, 72.1, 76.0, 74.4, 75.8, 65.8, 66.7, 64.7, 66.7, 65.6, 64.0, 65.7, 59.2, 57.5, 61.9, 63.5, 65.2, 60.3, 61.2, 57.7, 52.7, 53.3, 58.9, 54.3, 50.7, 53.9, 48.0, 44.3, 52.5, 49.2, 60.8, 59.3, 57.2, 48.3, 57.0, 44.7, 45.5, 46.5, 48.2, 35.5, 41.1, 47.4, 38.9, 47.6, 54.2, 68.7, 55.9, 55.0, 46.4, 50.7, 45.9, 45.3, 40.4, 37.0, 44.2, 48.0, 48.8, 54.1, 59.6, 57.9, 54.4, 59.1, 53.1, 48.0, 44.3, 30.9, 37.3, 40.3, 38.8, 38.7, 29.7, 26.5, 26.4, 27.6, 25.8, 22.2, 17.5, 6.8, 14.1, 12.6, 18.0, 20.6, 20.4, 23.3, 25.9, 27.9, 31.6, 33.5, 32.3, 25.9, 30.9, 31.7, 29.1, 34.3, 34.0, 30.2, 27.9, 32.8, 22.4, 20.8, 17.3, 21.2, 21.8, 17.4, 26.2, 27.9, 29.9, 28.4, 35.3, 38.1, 35.0, 23.7, 27.8, 35.4, 37.9, 48.1, 54.6, 57.5, 51.5, 58.9, 66.9, 53.5, 53.7, 57.8, 56.7, 63.2, 63.1, 53.1, 55.5, 56.6, 47.9, 50.2, 42.7, 44.0, 42.5, 48.0, 39.6, 41.7, 41.9, 46.8, 39.0, 51.9, 53.3, 39.0, 35.1, 26.9, 36.4, 35.4, 34.3, 35.8, 34.9, 32.1, 21.6, 27.1, 29.3, 31.5, 35.4, 33.9, 34.2, 27.9, 28.1, 23.1, 28.0, 21.9, 15.5, 17.4, 7.8, 12.3, 21.2, 24.3, 26.0, 29.0, 30.1, 29.0, 31.7, 27.4, 29.8, 33.5, 36.2, 43.2, 43.7, 35.4, 35.4, 30.2, 29.2, 26.3, 23.9, 22.2, 24.6, 25.3, 18.4, 20.9, 17.4, 19.2, 16.9, 17.1, 13.3, 11.3, 12.7, 49.2, 76.5, 87.2, 64.8, 71.4, 79.2, 76.3, 88.9, 83.6, 79.9, 86.6, 89.8, 90.0, 87.5, 85.6, 79.9, 57.7, 71.5, 72.4, 71.5, 79.9, 82.0, 83.7, 79.2, 83.1, 87.2, 84.0, 80.4, 78.9, 57.7, 62.8, 66.9, 65.0, 74.6, 76.5, 72.6, 73.4, 78.1, 75.2, 70.0, 80.5, 82.6, 85.1, 86.0, 89.7, 85.9, 89.2, 90.8, 94.4, 92.7, 89.6, 91.6, 91.0, 87.4, 84.2, 85.9, 86.7, 80.4, 86.9, 86.2, 87.9, 87.7, 74.4, 80.3, 79.7, 75.0, 75.9, 79.0, 78.4, 87.3, 89.9, 86.4, 89.8, 84.6, 82.0, 81.6, 85.8, 80.3, 77.4, 63.4, 59.1, 51.7, 63.6, 67.4, 66.5, 68.1, 72.9, 67.2, 63.3, 54.0, 53.8],
       smooth:true, symbol:'none',
       lineStyle:{color:'#722ed1',width:1.5}
     },{
       name:'structure',
-      type:'line', data:[32.8, 30.3, 30.6, 31.0, 30.9, 31.2, 33.6, 35.4, 37.6, 20.8, 32.1, 14.5, 9.7, 3.2, 12.7, 8.0, 4.8, 2.6, 31.1, 38.0, 45.8, 24.2, 26.1, 80.9, 74.1, 65.3, 30.3, 26.3, 39.3, 32.2, 20.0, 46.0, 31.9, 42.7, 46.1, 32.6, 56.3, 34.9, 45.4, 34.6, 43.0, 40.8, 39.3, 47.2, 58.2, 52.2, 82.5, 34.8, 83.2, 69.7, 39.9, 68.0, 79.9, 26.5, 66.8, 82.0, 52.7, 33.3, 74.7, 68.2, 72.8, 76.6, 77.7, 74.1, 58.1, 62.0, 78.0, 82.0, 84.8, 74.2, 73.4, 65.2, 72.1, 61.5, 69.3, 70.0, 65.0, 65.5, 66.4, 61.7, 61.6, 58.1, 52.7, 53.6, 50.3, 51.4, 45.3, 52.8, 45.3, 48.4, 39.6, 27.5, 25.7, 45.3, 50.0, 48.7, 54.6, 45.7, 26.9, 8.4, 31.9, 40.2, 54.6, 55.1, 56.6, 17.2, 42.1, 23.1, 32.0, 36.0, 50.7, 3.2, 19.5, 20.7, 20.1, 43.6, 42.9, 16.2, 25.0, 12.9, 48.8, 21.6, 55.9, 51.4, 59.0, 47.0, 56.4, 42.4, 53.6, 52.0, 38.6, 27.2, 38.5, 21.0, 39.4, 58.9, 39.6, 57.7, 66.8, 46.5, 15.9, 51.6, 47.0, 20.7, 22.9, 59.3, 60.0, 68.2, 54.1, 52.3, 46.5, 56.3, 25.6, 33.1, 42.6, 20.1, 26.6, 45.6, 50.1, 23.3, 47.0, 50.9, 9.8, 33.2, 23.9, 44.3, 30.7, 32.2, 49.4, 39.4, 17.3, 23.0, 32.2, 41.0, 16.5, 41.3, 42.8, 30.0, 26.9, 36.4, 43.9, 28.7, 19.6, 35.3, 50.5, 22.4, 48.5, 43.0, 20.7, 60.2, 30.6, 22.0, 38.0, 52.7, 49.7, 43.4, 33.0, 35.3, 47.7, 58.1, 51.5, 17.2, 47.6, 55.6, 51.7, 36.5, 42.6, 22.5, 22.3, 34.4, 18.4, 33.7, 27.2, 34.9, 40.1, 36.9, 39.0, 33.7, 44.4, 49.1, 27.3, 57.2, 60.4, 35.4, 64.0, 58.6, 54.9, 69.7, 67.4, 59.1, 41.5, 64.7, 78.6, 81.6, 62.3, 65.4, 78.3, 77.4, 74.7, 64.3, 75.2, 66.9, 73.2, 76.7, 72.8, 63.9, 63.0, 51.7, 77.8, 77.6, 60.9, 61.4, 56.5, 62.2, 36.3, 67.9, 68.8, 59.5, 41.9, 31.2, 37.7, 58.7, 34.5, 47.0, 36.4, 49.5, 48.3, 57.7, 42.3, 34.7, 43.6, 51.1, 75.4, 64.0, 69.8, 50.2, 43.1, 60.9, 54.7, 57.3, 54.2, 66.1, 44.8, 48.7, 49.5, 54.0, 64.6, 46.2, 45.2, 59.3, 59.5, 72.2, 60.3, 66.3, 84.8, 63.0, 48.0, 76.7, 54.9, 50.1, 56.6, 63.5, 57.3, 58.6, 67.7, 41.8, 34.2, 43.6, 40.2, 50.6, 30.3, 37.9, 45.0, 48.9, 34.2, 41.1, 40.1, 28.4, 41.6, 25.8, 38.2, 41.0, 21.6, 20.5, 32.5, 37.4, 22.2, 28.3, 27.7, 28.0, 40.1, 32.9, 35.3, 43.9, 50.0, 30.9, 23.9, 33.2, 29.2, 47.0, 56.7, 42.1, 45.9, 38.3, 49.2, 35.4, 29.8, 20.8, 27.3, 53.9, 39.7, 50.4, 40.2, 47.1, 49.6, 45.8, 42.6, 41.0, 63.1, 34.3, 64.7, 27.2, 25.5, 33.2, 18.3, 30.8, 31.8, 29.0, 36.6, 32.6, 35.6, 32.1, 18.9, 19.5, 26.4, 16.7, 19.4, 28.4, 27.7, 49.4, 38.6, 38.9, 20.7, 52.8, 41.1, 37.4, 20.1, 63.3, 36.8, 65.6, 57.3, 49.4, 35.2, 44.1, 53.0, 69.5, 59.5, 67.9, 71.3, 68.9, 56.3, 76.0, 60.1, 76.3, 46.2, 56.1, 54.8, 62.5, 57.4, 52.2, 53.4, 50.2, 54.8, 52.4, 54.0, 55.7, 45.5, 57.1, 72.4, 63.2, 47.4, 51.9, 69.2, 53.7, 59.3, 50.2, 49.8, 38.0, 59.7, 50.2, 57.3, 59.4, 56.2, 67.9, 82.9, 57.3, 78.3, 90.0, 88.7, 80.2, 60.9, 79.7, 91.7, 75.8, 65.1, 68.5, 79.7, 79.9, 58.2, 81.2, 90.7, 80.9, 64.6, 59.7, 80.7, 89.0, 74.9, 54.4, 73.5, 87.6, 50.2, 76.2, 83.9, 76.6, 75.4, 63.9, 50.2, 61.2, 77.5, 74.4, 64.9, 60.5, 57.6, 53.8, 61.4, 53.6, 59.1, 65.3, 54.6, 55.6, 55.9, 82.2, 59.7, 79.0, 81.1, 45.7, 82.1, 76.1, 91.9, 91.2, 85.1, 91.4, 76.7, 87.1, 82.0, 59.1, 77.2, 83.3, 57.1, 49.8, 48.6, 48.7, 69.7, 70.0, 47.7, 63.0, 65.6, 53.8, 72.2, 79.6, 51.1, 75.0, 64.8, 77.1, 89.4, 94.8, 82.5, 75.2, 77.2, 63.8, 72.2, 52.4, 69.4, 52.3, 52.9, 80.4, 61.5, 48.3, 53.2, 80.0, 63.7, 83.1, 88.0, 81.7, 66.8, 72.7, 38.5, 49.5, 75.6, 82.9, 82.9, 74.0, 60.8, 51.7, 68.9, 72.2, 74.0, 60.8, 57.0, 77.9, 78.6, 60.4, 69.7, 66.2, 58.3, 62.1, 59.6, 60.5, 66.4, 58.0, 50.2, 72.6, 52.2, 44.8, 67.5, 63.7, 84.7, 60.0, 45.2, 41.8, 49.6, 31.6, 50.7, 32.3, 38.0, 42.4, 62.3, 33.8, 45.0, 61.8, 66.1, 55.3, 26.5, 35.4, 23.8, 24.4, 28.7, 23.4, 42.2],
+      type:'line', data:[14.5, 12.4, 36.3, 8.4, 32.2, 15.8, 27.4, 14.7, 21.9, 15.5, 20.6, 9.0, 4.2, 2.0, 4.3, 2.7, 2.7, 2.6, 18.1, 21.9, 25.6, 8.1, 9.6, 62.9, 53.4, 44.1, 24.5, 13.5, 18.2, 16.9, 11.7, 23.2, 29.5, 20.9, 23.3, 14.9, 34.2, 13.8, 23.0, 13.8, 21.0, 19.7, 22.3, 25.4, 35.0, 32.8, 62.4, 34.8, 65.7, 48.2, 35.5, 47.1, 61.0, 22.0, 47.9, 79.6, 39.4, 29.9, 69.0, 50.8, 56.6, 62.7, 63.8, 64.4, 41.2, 46.5, 65.8, 79.3, 82.5, 73.9, 66.1, 59.8, 63.8, 52.0, 67.3, 68.9, 60.2, 63.8, 65.5, 61.6, 61.5, 57.6, 48.3, 53.7, 50.2, 51.4, 42.9, 52.8, 42.7, 48.3, 34.3, 19.8, 18.0, 42.4, 49.9, 47.1, 55.1, 43.7, 19.6, 7.6, 26.5, 38.4, 54.9, 55.7, 57.4, 11.2, 41.4, 18.1, 29.0, 34.2, 51.1, 2.6, 14.3, 15.7, 14.8, 43.4, 42.8, 11.5, 20.3, 9.1, 48.9, 15.8, 56.7, 52.3, 59.4, 47.3, 57.9, 40.7, 55.3, 52.6, 36.7, 22.2, 36.0, 17.7, 38.3, 61.0, 38.3, 59.4, 68.0, 47.8, 15.3, 53.1, 48.5, 17.7, 20.4, 61.2, 62.1, 68.8, 55.9, 54.3, 47.3, 58.5, 22.4, 30.6, 43.5, 18.0, 23.8, 47.3, 51.8, 19.7, 48.6, 51.9, 8.8, 34.0, 22.8, 45.9, 31.4, 33.5, 50.2, 40.9, 14.9, 22.1, 33.7, 42.8, 14.5, 42.5, 44.6, 30.9, 26.2, 37.8, 45.7, 29.8, 17.8, 36.7, 51.9, 20.9, 50.6, 45.1, 18.7, 61.2, 29.0, 20.5, 37.5, 53.8, 51.6, 45.1, 33.8, 36.7, 49.6, 59.7, 53.8, 16.0, 49.9, 55.9, 53.8, 39.4, 45.7, 22.0, 22.2, 36.3, 17.1, 35.9, 27.9, 36.7, 42.5, 38.9, 41.0, 35.1, 47.0, 51.6, 26.1, 60.0, 63.2, 34.7, 66.4, 61.1, 57.3, 71.8, 69.7, 61.7, 41.6, 67.5, 80.8, 82.6, 65.1, 68.6, 80.4, 78.8, 76.9, 67.4, 77.4, 70.1, 75.8, 78.7, 75.0, 66.6, 66.4, 54.9, 79.1, 78.8, 64.8, 65.1, 60.4, 65.1, 37.7, 69.3, 69.1, 63.4, 43.3, 31.3, 39.7, 62.9, 34.2, 48.6, 36.4, 52.6, 50.0, 61.4, 43.9, 34.4, 46.1, 54.8, 76.6, 67.8, 73.4, 53.5, 44.9, 64.7, 58.5, 60.9, 55.9, 69.5, 44.7, 50.0, 50.7, 55.7, 68.0, 46.9, 45.9, 61.8, 61.2, 75.2, 62.4, 69.1, 87.1, 65.4, 48.7, 79.4, 56.1, 51.1, 59.6, 66.4, 60.1, 61.1, 70.5, 42.2, 34.3, 45.4, 41.1, 53.3, 30.6, 38.0, 45.3, 49.8, 34.0, 41.4, 40.2, 28.0, 43.3, 25.8, 39.4, 42.1, 21.6, 20.4, 33.0, 38.3, 22.1, 28.1, 27.7, 27.9, 41.2, 32.7, 35.2, 44.9, 51.1, 30.8, 23.9, 32.6, 28.9, 47.1, 58.1, 41.8, 45.5, 37.6, 49.7, 34.7, 29.5, 20.8, 26.8, 54.5, 38.8, 50.5, 39.5, 47.3, 49.7, 45.1, 42.3, 40.3, 64.1, 33.5, 65.5, 26.3, 24.8, 32.8, 17.4, 30.3, 31.3, 28.1, 36.0, 31.7, 35.1, 31.2, 18.6, 19.2, 25.4, 16.6, 19.3, 27.4, 26.6, 49.0, 37.7, 38.1, 19.7, 53.0, 39.9, 36.3, 19.5, 63.2, 35.8, 65.8, 57.0, 48.5, 34.3, 43.0, 52.3, 69.8, 58.8, 67.5, 70.9, 68.2, 55.4, 76.0, 59.1, 76.1, 45.2, 55.2, 53.8, 61.8, 56.5, 51.1, 52.5, 49.2, 54.1, 51.7, 53.4, 55.2, 44.8, 56.8, 72.8, 63.4, 46.7, 51.3, 69.4, 53.3, 58.9, 49.7, 49.1, 37.5, 59.2, 49.6, 56.7, 58.8, 55.4, 67.2, 83.1, 56.8, 78.1, 90.2, 88.9, 80.2, 60.6, 79.6, 92.1, 75.5, 64.7, 68.1, 79.7, 79.9, 58.0, 81.3, 91.0, 81.0, 64.4, 59.5, 80.9, 89.4, 75.0, 54.3, 73.7, 88.1, 50.4, 76.6, 84.4, 77.0, 75.8, 64.1, 50.2, 61.4, 77.9, 74.8, 65.1, 60.7, 57.6, 54.0, 61.4, 53.7, 59.1, 65.4, 54.5, 55.6, 55.9, 82.5, 59.7, 79.2, 81.3, 45.7, 82.3, 76.3, 92.2, 91.4, 85.3, 91.6, 77.0, 87.4, 82.3, 59.3, 77.6, 83.6, 57.4, 49.8, 48.7, 48.7, 69.9, 70.4, 47.7, 63.1, 65.6, 53.9, 72.3, 79.8, 51.1, 75.1, 64.9, 77.2, 89.6, 95.0, 82.8, 75.4, 77.4, 64.1, 72.4, 52.5, 69.8, 52.6, 53.3, 80.9, 62.0, 48.6, 53.5, 80.6, 64.4, 83.7, 88.4, 82.3, 67.9, 73.6, 39.1, 50.7, 76.5, 83.7, 83.4, 75.0, 62.4, 53.3, 70.5, 73.6, 75.3, 62.9, 59.1, 79.0, 79.7, 62.7, 71.7, 68.2, 60.7, 64.5, 62.2, 63.1, 68.7, 60.7, 52.5, 74.5, 55.0, 47.2, 70.0, 66.3, 85.6, 62.8, 46.7, 43.1, 52.3, 32.4, 53.4, 33.8, 40.7, 44.7, 64.3, 34.0, 47.5, 63.7, 66.8, 56.8, 28.6, 37.6, 24.8, 26.1, 30.6, 24.3, 44.0],
       smooth:true, symbol:'none',
       lineStyle:{color:'#eb2f96',width:1.5}
     }

diff --git a/reports/daily_20260603.md b/reports/daily_20260603.md
@@ -1,6 +1,6 @@
 # 📊 A股牛市热度指数日报
 
-> **交易日**: 2026-06-03  |  **生成时间**: 2026-06-04 10:20
+> **交易日**: 2026-06-03  |  **生成时间**: 2026-06-04 10:54
 
 ---
 
@@ -18,16 +18,16 @@
 |------|------|--------|------|
 | 估值 | 58 |  ↓2.3 | 🟡 中性 |
 | 资金 | 98 |  ↓1.4 | 🔴 偏高 |
-| 情绪 | 64 |  ↑24.0 | 🟡 中性 |
-| 技术 | 56 |  ↑0.2 | 🟡 中性 |
-| structure | 42 |  ↑18.8 | 🟡 中性 |
+| 情绪 | 64 |  ↑24.2 | 🟡 中性 |
+| 技术 | 56 |  ↑2.0 | 🟡 中性 |
+| structure | 42 |  ↑17.9 | 🟡 中性 |
 
 ```
   估值  ███████░░░░░   58.5   ↓2.3
   资金  ███████████░   98.3   ↓1.4
-  情绪  ███████░░░░░   64.0   ↑24.0
-  技术  ██████░░░░░░   56.0   ↑0.2
-  structure  █████░░░░░░░   42.2   ↑18.8
+  情绪  ███████░░░░░   64.0   ↑24.2
+  技术  ██████░░░░░░   56.0   ↑2.0
+  structure  █████░░░░░░░   42.2   ↑17.9
 ```
 
 ### 关键指标
@@ -70,16 +70,16 @@
 
 | 日期 | 得分 | 状态 |
 |------|------|------|
-| 2026-04-03 | 58.3 | ⚪ unknown |
-| 2026-04-10 | 71.2 | ⚪ unknown |
-| 2026-04-17 | 68.9 | ⚪ unknown |
-| 2026-04-24 | 62.1 | ⚪ unknown |
-| 2026-04-30 | 67.6 | ⚪ unknown |
+| 2026-04-03 | 58.5 | ⚪ unknown |
+| 2026-04-10 | 71.1 | ⚪ unknown |
+| 2026-04-17 | 69.1 | ⚪ unknown |
+| 2026-04-24 | 62.5 | ⚪ unknown |
+| 2026-04-30 | 67.8 | ⚪ unknown |
 | 2026-05-08 | 68.6 | ⚪ unknown |
-| 2026-05-15 | 64.2 | ⚪ unknown |
+| 2026-05-15 | 64.5 | ⚪ unknown |
 | 2026-05-22 | 68.3 | ⚪ unknown |
 | 2026-05-29 | 58.4 | ⚪ unknown |
-| 2026-06-03 | 66.4 | ⚪ unknown |
+| 2026-06-03 | 66.2 | ⚪ unknown |
 
 ---
 